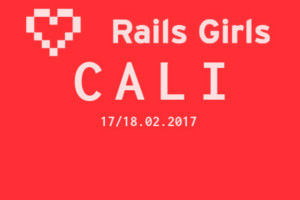
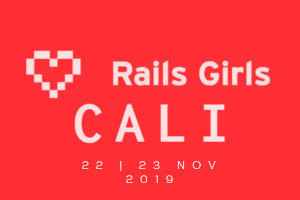
[CALI] update event info

diff --git a/events.html b/events.html
@@ -136,7 +136,7 @@
                     <p>October 19th, 2019</p>
                 </div>
             </a>
-		
+
 	    <a href="./luxembourg.html" class="event"
                 style="background: url(images/rg-luxembourg.png) 0px -70px /100vh no-repeat; background-size: cover;">
                 <div>
@@ -189,6 +189,14 @@
                 <div>
                     <h3>London, UK</h3>
                     <p>November 8th &amp; 9th, 2019</p>
+                </div>
+            </a>
+
+            <a href="./cali.html" class="event"
+                style="background: url(images/cali/rg-cali-event.jpg) 0px -70px / 100% no-repeat;">
+                <div>
+                    <h3>Cali, Colombia</h3>
+                    <p>November 22th, 2019</p>
                 </div>
             </a>
 
